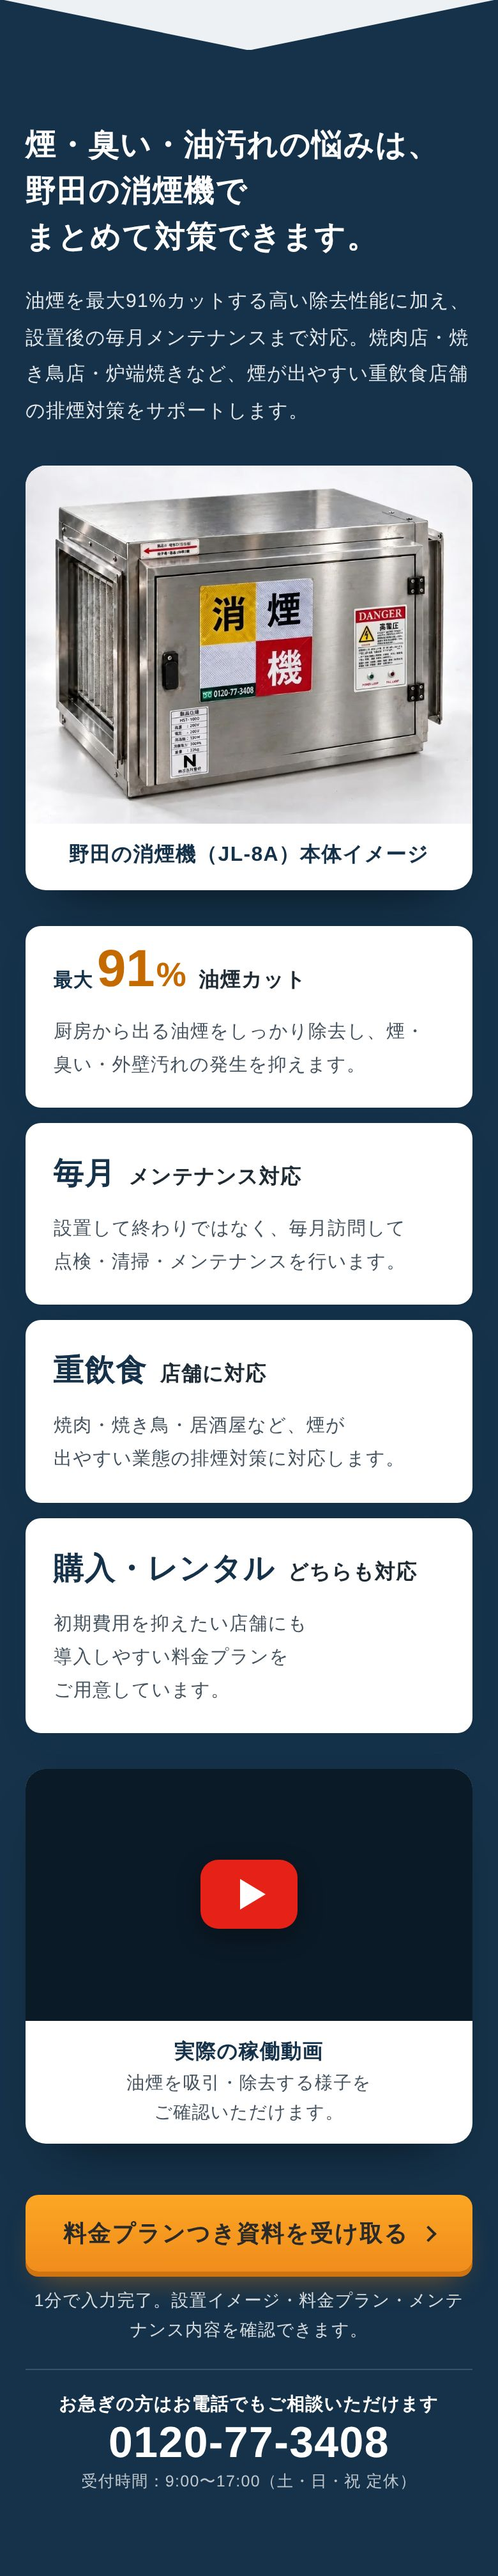
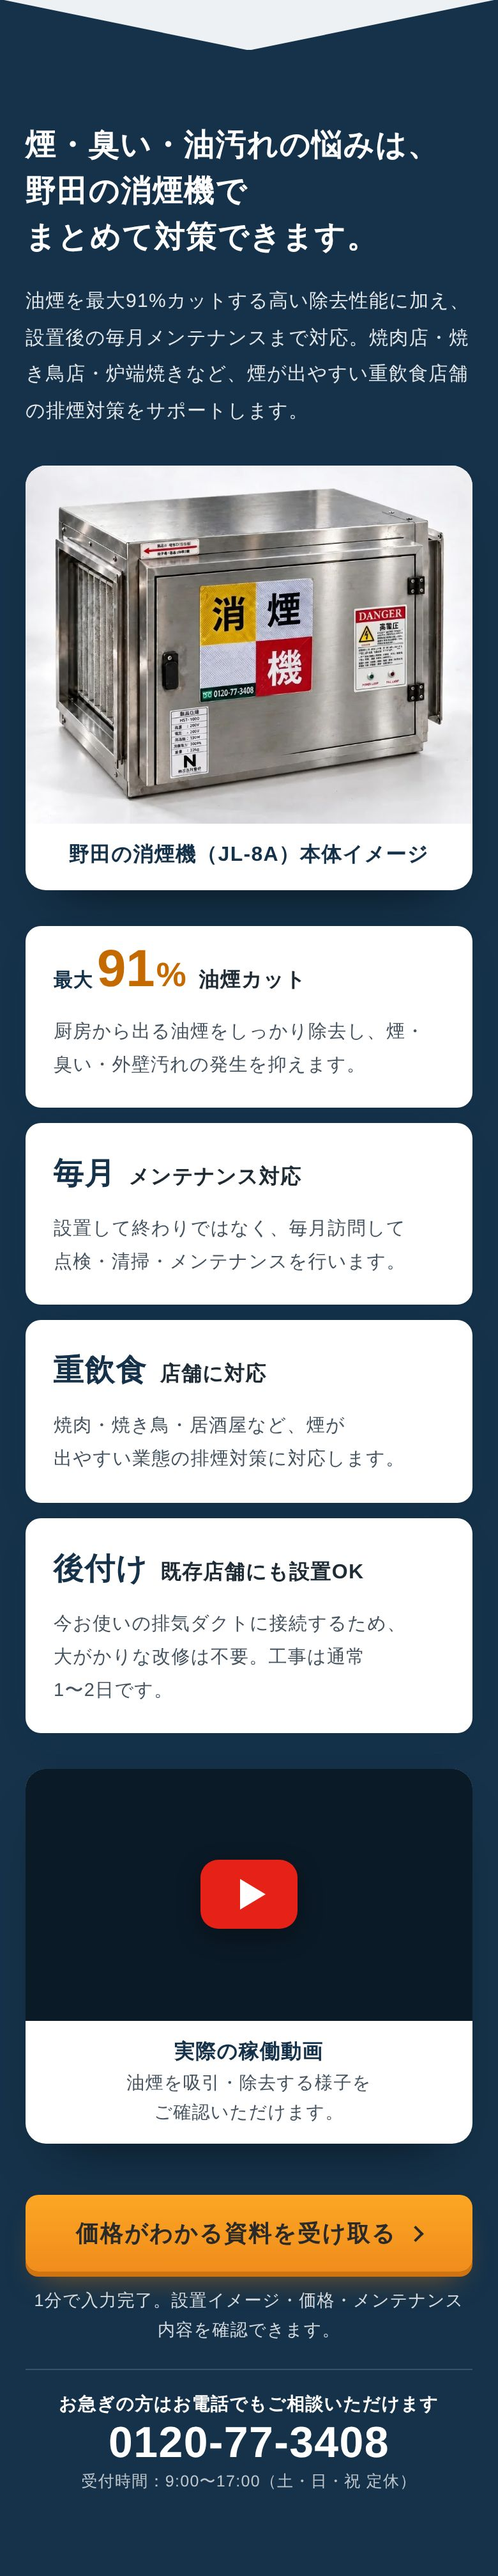
LPを販売のみの表記にする（レンタルを案内しない）
代理店販売を進めるため、LPではレンタルを載せない方針に合わせる。
- POINT03・選ばれる理由・特長4点目の「料金プラン／購入・レンタル」を「後付けOK」に替える
- よくある質問を「導入費用はどのくらいかかりますか？」にする
- 資料請求ボタンと資料の説明を「価格」にそろえる（お問い合わせページ・自動返信メールも）
- 説明文（meta description）からレンタルを外す

Claude-Session: https://claude.ai/code/session_019JDn7AZMLfVuv5c9s7Xp3K

diff --git a/index.html b/index.html
@@ -4,7 +4,7 @@
 <meta charset="utf-8">
 <meta name="viewport" content="width=device-width, initial-scale=1, viewport-fit=cover">
 <title>【油煙91%カット】野田の消煙機│飲食店の排煙トラブルをゼロへ</title>
-<meta name="description" content="焼肉店・焼き鳥店・居酒屋など重飲食店の煙・臭い・油汚れ対策に。電気集塵方式で油煙を最大91%カットする「野田の消煙機 JL-8A」。全国対応。設置から毎月の定期メンテナンスまで対応。購入・レンタルの料金プランつき資料を無料でお送りします。">
+<meta name="description" content="焼肉店・焼き鳥店・居酒屋など重飲食店の煙・臭い・油汚れ対策に。電気集塵方式で油煙を最大91%カットする「野田の消煙機 JL-8A」。全国対応。設置から毎月の定期メンテナンスまで対応。価格や設置イメージがわかる資料を無料でお送りします。">
 <link rel="canonical" href="https://shoenki.duct-noda.com/">
 <meta name="theme-color" content="#15324a">
 <meta name="format-detection" content="telephone=no">
@@ -93,7 +93,7 @@ j=d.createElement(s),dl=l!='dataLayer'?'&l='+l:'';j.async=true;j.src=
         {"@type": "Question", "name": "設置スペースはどれくらい必要ですか？", "acceptedAnswer": {"@type": "Answer", "text": "本体サイズは750(W)×840(D)×680(H)mmで、畳1枚に収まる大きさです。設置にあたっては、本体の前後に接続用のチャンバーボックスを、正面に0.7m以上のメンテナンススペースを確保します。厨房内・屋外・天井吊りなど設置パターンは複数あり、現地調査で店舗に合った配置をご提案します。"}},
         {"@type": "Question", "name": "1階の店舗でなくても大丈夫ですか？", "acceptedAnswer": {"@type": "Answer", "text": "問題ありません。毎月のメンテナンスで扉を開けて内部の部品を引き出すため、本体の正面に一定のスペースが必要です。現地調査で確認します。店内への設置事例もあります。"}},
         {"@type": "Question", "name": "屋外にも設置できますか？", "acceptedAnswer": {"@type": "Answer", "text": "はい。屋外に設置する場合は防雨カバー（別売）を取り付け、油漏れ・虫や雨水の侵入・使用環境（温度0〜50℃、湿度80%以下）を考えて施工します。"}},
-        {"@type": "Question", "name": "導入するにはどんなプランがありますか？", "acceptedAnswer": {"@type": "Answer", "text": "購入プランとレンタルプランの2種類をご用意しています。料金の詳細は資料をご覧ください。"}},
+        {"@type": "Question", "name": "導入費用はどのくらいかかりますか？", "acceptedAnswer": {"@type": "Answer", "text": "本体価格と標準工事の費用、毎月のメンテナンス費用は資料でご案内しています。設置場所やダクトの状況によって工事の内容が変わるため、正式な金額は現地調査のうえでお見積りします。"}},
         {"@type": "Question", "name": "保証はありますか？", "acceptedAnswer": {"@type": "Answer", "text": "お買い上げ日から1年間の保証があります。保証期間内に正常な使い方で故障した場合は、無償で修理します（天災、誤った使い方、消耗品の劣化などによる故障は有償となります）。"}},
         {"@type": "Question", "name": "どんな仕組みで煙を消すのですか？", "acceptedAnswer": {"@type": "Answer", "text": "静電気の力で煙を集める「電気集塵方式」です。ダクトから入った煙は、まず高電圧部（12kV）でプラスの電気を帯び、続く低電圧部（6kV）でマイナスの極板に吸着されます。フィルターで濾し取るのではなく電気で吸い付けるため、目に見えないほど細かい油煙まで捕集でき、風の通りを妨げにくいのが特長です。"}}
       ]
@@ -151,12 +151,12 @@ j=d.createElement(s),dl=l!='dataLayer'?'&l='+l:'';j.async=true;j.src=
       </li>
       <li class="point">
         <svg class="point__ring" viewBox="0 0 160 160" aria-hidden="true"><circle cx="80" cy="84" r="68"/><path id="pa3" d="M24 70 A60 60 0 0 1 98 25" fill="none" stroke="none"/><text><textPath href="#pa3">POINT03</textPath></text></svg>
-        <p><span class="point__s">導入しやすい</span><b>料金プラン</b></p>
+        <p><span class="point__s">ダクトに</span><b>後付けOK</b></p>
       </li>
     </ul>
     <div class="cta cta--hero">
-      <a class="btn btn--cta" href="#download">料金プランつき資料を受け取る<i class="arw" aria-hidden="true"></i></a>
-      <p class="cta__note">1分で入力完了。設置イメージ・料金プラン・メンテナンス内容を確認できます。</p>
+      <a class="btn btn--cta" href="#download">価格がわかる資料を受け取る<i class="arw" aria-hidden="true"></i></a>
+      <p class="cta__note">1分で入力完了。設置イメージ・価格・メンテナンス内容を確認できます。</p>
       <p class="cta__tel"><span>お急ぎの方はお電話で</span><a href="tel:0120773408">0120-77-3408</a><small>受付 9:00〜17:00（土・日・祝 定休）</small></p>
     </div>
   </div>
@@ -295,7 +295,7 @@ j=d.createElement(s),dl=l!='dataLayer'?'&l='+l:'';j.async=true;j.src=
         <li class="card feat"><h3><span class="feat__key"><span class="feat__pre">最大</span><b class="num">91</b><span class="feat__unit num">%</span></span><span class="feat__t">油煙カット</span></h3><p>厨房から出る油煙をしっかり除去し、煙・臭い・外壁汚れの発生を抑えます。</p></li>
         <li class="card feat"><h3><span class="feat__key">毎月</span><span class="feat__t">メンテナンス対応</span></h3><p>設置して終わりではなく、毎月訪問して点検・清掃・メンテナンスを行います。</p></li>
         <li class="card feat"><h3><span class="feat__key">重飲食</span><span class="feat__t">店舗に対応</span></h3><p>焼肉・焼き鳥・居酒屋など、煙が出やすい業態の排煙対策に対応します。</p></li>
-        <li class="card feat"><h3><span class="feat__key"><span class="nb">購入・</span><span class="nb">レンタル</span></span><span class="feat__t">どちらも対応</span></h3><p>初期費用を抑えたい店舗にも導入しやすい料金プランをご用意しています。</p></li>
+        <li class="card feat"><h3><span class="feat__key">後付け</span><span class="feat__t">既存店舗にも設置OK</span></h3><p>今お使いの排気ダクトに接続するため、大がかりな改修は不要。工事は通常1〜2日です。</p></li>
       </ul>
     </div>
     <div class="solution__side">
@@ -316,8 +316,8 @@ j=d.createElement(s),dl=l!='dataLayer'?'&l='+l:'';j.async=true;j.src=
   </div>
   <div class="wrap">
     <div class="cta cta--dark">
-      <a class="btn btn--cta" href="#download">料金プランつき資料を受け取る<i class="arw" aria-hidden="true"></i></a>
-      <p class="cta__note">1分で入力完了。設置イメージ・料金プラン・メンテナンス内容を確認できます。</p>
+      <a class="btn btn--cta" href="#download">価格がわかる資料を受け取る<i class="arw" aria-hidden="true"></i></a>
+      <p class="cta__note">1分で入力完了。設置イメージ・価格・メンテナンス内容を確認できます。</p>
       <p class="cta__tel"><span>お急ぎの方はお電話でもご相談いただけます</span><a href="tel:0120773408">0120-77-3408</a><small>受付時間：9:00〜17:00（土・日・祝 定休）</small></p>
     </div>
   </div>
@@ -424,11 +424,11 @@ j=d.createElement(s),dl=l!='dataLayer'?'&l='+l:'';j.async=true;j.src=
     <ul class="checks">
       <li>毎月の定期メンテナンス</li>
       <li>飲食店換気専門事業者として<span class="nb">20年以上の実績</span></li>
-      <li>導入しやすい料金プランで納得</li>
+      <li>大がかりな改修なしで<span class="nb">後付けOK</span></li>
     </ul>
     <div class="cta cta--dark">
-      <a class="btn btn--cta" href="#download">料金プランつき資料を受け取る<i class="arw" aria-hidden="true"></i></a>
-      <p class="cta__note">1分で入力完了。設置イメージ・料金プラン・メンテナンス内容を確認できます。</p>
+      <a class="btn btn--cta" href="#download">価格がわかる資料を受け取る<i class="arw" aria-hidden="true"></i></a>
+      <p class="cta__note">1分で入力完了。設置イメージ・価格・メンテナンス内容を確認できます。</p>
       <p class="cta__tel"><span>お急ぎの方はお電話でもご相談いただけます</span><a href="tel:0120773408">0120-77-3408</a><small>受付時間：9:00〜17:00（土・日・祝 定休）</small></p>
     </div>
   </div>
@@ -493,8 +493,8 @@ j=d.createElement(s),dl=l!='dataLayer'?'&l='+l:'';j.async=true;j.src=
       <li><b class="stat__num"><span class="num">3</span>ヶ月に1回</b><p>壁やダクトの清掃頻度が<span class="nb">月1回から3ヶ月に1回に</span></p></li>
     </ul>
     <div class="cta cta--dark">
-      <a class="btn btn--cta" href="#download">料金プランつき資料を受け取る<i class="arw" aria-hidden="true"></i></a>
-      <p class="cta__note">1分で入力完了。設置イメージ・料金プラン・メンテナンス内容を確認できます。</p>
+      <a class="btn btn--cta" href="#download">価格がわかる資料を受け取る<i class="arw" aria-hidden="true"></i></a>
+      <p class="cta__note">1分で入力完了。設置イメージ・価格・メンテナンス内容を確認できます。</p>
       <p class="cta__tel"><span>お急ぎの方はお電話でもご相談いただけます</span><a href="tel:0120773408">0120-77-3408</a><small>受付時間：9:00〜17:00（土・日・祝 定休）</small></p>
     </div>
   </div>
@@ -580,7 +580,7 @@ j=d.createElement(s),dl=l!='dataLayer'?'&l='+l:'';j.async=true;j.src=
       <section class="faq__grp" id="faq-plan" aria-labelledby="faq-plan-ttl">
         <h3 class="faq__h" id="faq-plan-ttl"><span class="faq__h-no num" aria-hidden="true">03</span>導入・ご契約</h3>
         <div class="qas">
-          <details class="qa"><summary><span class="qa__q" aria-hidden="true">Q</span><span class="qa__t"><span class="nb">導入するにはどんな</span><span class="nb">プランがありますか？</span></span><i aria-hidden="true"></i></summary><div class="qa__a"><span class="qa__mk" aria-hidden="true">A</span><div class="qa__txt"><p>購入プランとレンタルプランの2種類をご用意しています。料金の詳細は<a href="#download">資料</a>をご覧ください。</p></div></div></details>
+          <details class="qa"><summary><span class="qa__q" aria-hidden="true">Q</span><span class="qa__t"><span class="nb">導入費用は</span><span class="nb">どのくらい</span><span class="nb">かかりますか？</span></span><i aria-hidden="true"></i></summary><div class="qa__a"><span class="qa__mk" aria-hidden="true">A</span><div class="qa__txt"><p>本体価格と標準工事の費用、毎月のメンテナンス費用は<a href="#download">資料</a>でご案内しています。設置場所やダクトの状況によって工事の内容が変わるため、正式な金額は現地調査のうえでお見積りします。</p></div></div></details>
           <details class="qa"><summary><span class="qa__q" aria-hidden="true">Q</span><span class="qa__t"><span class="nb">対応エリアは</span><span class="nb">どこまでですか？</span></span><i aria-hidden="true"></i></summary><div class="qa__a"><span class="qa__mk" aria-hidden="true">A</span><div class="qa__txt"><p>全国に対応しています。九州・中国地方以外の地域では、当社の提携業者が設置工事と毎月のメンテナンスを担当します。お見積りの際に、お店の地域での進め方をご案内します。</p></div></div></details>
           <details class="qa"><summary><span class="qa__q" aria-hidden="true">Q</span><span class="qa__t"><span class="nb">保証は</span><span class="nb">ありますか？</span></span><i aria-hidden="true"></i></summary><div class="qa__a"><span class="qa__mk" aria-hidden="true">A</span><div class="qa__txt"><p>お買い上げ日から1年間の保証があります。保証期間内に正常な使い方で故障した場合は、無償で修理します（天災、誤った使い方、消耗品の劣化などによる故障は有償となります）。</p></div></div></details>
         </div>
@@ -607,7 +607,7 @@ j=d.createElement(s),dl=l!='dataLayer'?'&l='+l:'';j.async=true;j.src=
         <p class="dl__box-ttl">資料でわかること</p>
         <ul class="ticks">
           <li>設置イメージ</li>
-          <li>料金プラン（購入・レンタル）</li>
+          <li>本体価格・工事費用</li>
           <li>毎月のメンテナンス内容</li>
         </ul>
       </div>

diff --git a/contact/index.html b/contact/index.html
@@ -86,7 +86,7 @@ j=d.createElement(s),dl=l!='dataLayer'?'&l='+l:'';j.async=true;j.src=
     <div class="form-card">
       <div class="ct__notice" role="note">
         <p class="ct__notice-ttl"><span class="nb">このフォームでは、</span><span class="nb">資料はお送りしていません</span></p>
-        <p><span class="nb">料金プラン・設置イメージなどの</span><span class="nb">資料をご希望の方は、</span><span class="nb">資料請求フォームから</span><span class="nb">お申し込みください。</span></p>
+        <p><span class="nb">価格・設置イメージなどの</span><span class="nb">資料をご希望の方は、</span><span class="nb">資料請求フォームから</span><span class="nb">お申し込みください。</span></p>
         <a class="ct__notice-link" href="../#download">資料請求フォームへ<i class="arw" aria-hidden="true"></i></a>
       </div>
       <form class="form" data-form="contact" data-endpoint="" novalidate>
@@ -163,7 +163,7 @@ j=d.createElement(s),dl=l!='dataLayer'?'&l='+l:'';j.async=true;j.src=
       <a class="telbox" href="tel:0120773408"><small>フリーダイヤル（通話無料）</small><b class="num">0120-77-3408</b><span>受付時間：9:00〜17:00（土・日・祝 定休）</span></a>
       <a class="linebtn" href="https://line.me/R/ti/p/@254bbzux" target="_blank" rel="noopener"><img class="ic ic--line" src="../assets/img/line-icon.webp" width="24" height="24" alt="">LINEで問い合わせる</a>
       <div class="dlcard">
-        <p>まずは料金プランや設置イメージを見てみたい方は、<span class="nb">資料請求が便利です。</span></p>
+        <p>まずは価格や設置イメージを見てみたい方は、<span class="nb">資料請求が便利です。</span></p>
         <a class="btn btn--orange" href="../#download">無料で資料を受け取る</a>
       </div>
     </aside>

diff --git a/README.md b/README.md
@@ -68,6 +68,16 @@ npx serve .
 - 資料請求とお問い合わせのフォームに「店舗の所在地（都道府県）」を加えました。
 - 説明文（meta description）と構造化データ（対応エリア：日本）に全国対応を反映しました。
 
+## 販売のみの表記（2026年10月18日）
+
+代理店での販売を進めるため、LPではレンタルを案内せず、販売（買取）だけを載せる方針になりました。レンタルは当社の直販でのみ扱い、資料はレンタルあり版と販売のみ版に分けます。
+
+- ファーストビューの POINT03 を「導入しやすい料金プラン」から「ダクトに後付けOK」に、「選ばれる理由」の3つ目を「大がかりな改修なしで後付けOK」に変えました。
+- 特長4点の「購入・レンタル どちらも対応」を「後付け 既存店舗にも設置OK」に変えました。
+- よくある質問の「どんなプランがありますか？（購入とレンタルの2種類）」を「導入費用はどのくらいかかりますか？」に変え、本体価格・標準工事・毎月のメンテナンス費用は資料で、正式な金額は現地調査のうえでお見積り、と答えています。
+- 資料請求ボタンを「料金プランつき資料を受け取る」から「価格がわかる資料を受け取る」に、「資料でわかること」を「本体価格・工事費用」にしました。お問い合わせページと自動返信メールの「料金プラン」も「価格」にしています。
+- LPの資料請求で送る資料は、販売のみ版のPDFにしてください（`DOWNLOAD_URL`）。
+
 ## 会社概要・プライバシーポリシー・お問い合わせ
 
 | ページ | 内容 |
@@ -141,7 +151,7 @@ npx serve .
 
 ## 公開前に確認していただきたいこと
 
-- **資料PDFのURL**：自動返信メールに載せる資料のURLを教えてください。
+- **資料PDFのURL**：自動返信メールに載せる資料（販売のみ版）のURLを教えてください。
 - **会社ドメイン**：取扱説明書のメール・Webは `noda-duct.com`、現行LPのリンク先は `duct-noda.com` です。検索結果では両方のサイトが出てきます。会社概要のウェブサイト欄は `duct-noda.com` にしています。
 - **全国対応の表現**：「全国対応」と、よくある質問の答え（設置とメンテナンスの進め方は地域ごとにご案内）を、実際の体制に合わせて確認してください。
 - **実績の数字**：「導入店舗の99%がクレーム減少を実感」「全国100軒以上」「清掃頻度が月1回から3ヶ月に1回」は現行LPの記載をそのまま使っています。
@@ -159,7 +169,7 @@ npx serve .
 | 特長（紺） | 「まとめて対策できます」、本体写真、特長4点（PCとタブレットは2×2）、稼働動画。スマホでは見出し→写真→特長→動画の順 |
 | **仕組み（追加）** | 電気集塵の3ステップ（整える → 12kVで帯電 → 6kVで集める）。煙の粒が集まる様子をスクロールに合わせて表示し、集塵率が最大91%まで上がる |
 | 3つのメリット | 近隣クレーム・外壁の油汚れ・物件の価値 |
-| 選ばれる理由（紺） | 毎月の定期メンテナンス、20年以上の実績、料金プラン |
+| 選ばれる理由（紺） | 毎月の定期メンテナンス、20年以上の実績、大がかりな改修なしで後付けOK |
 | 導入事例 | 焼肉店・居酒屋・焼き鳥店の課題 → 導入 → 結果 |
 | 導入店舗の実績（紺） | 99% / 100軒以上 / 3ヶ月に1回 |
 | ご利用の流れ | 5ステップ。番号を1本の線でつなぎ、スクロールに合わせて線が伸びて番号が点灯する（動きを減らす設定の端末では、最初から全部点灯） |
